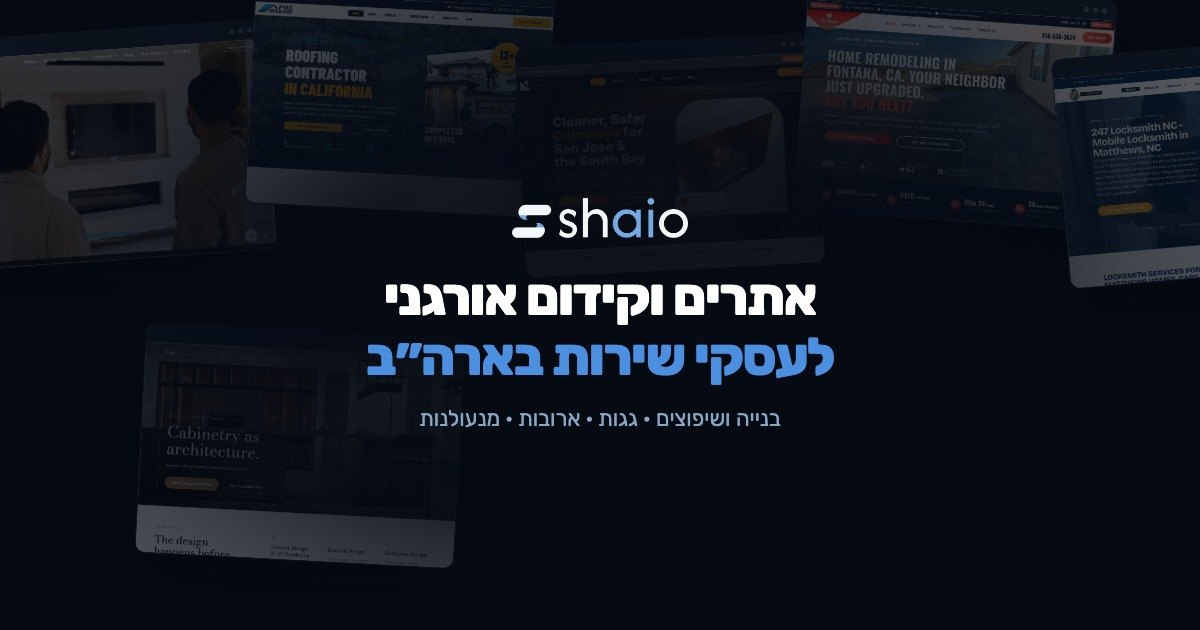
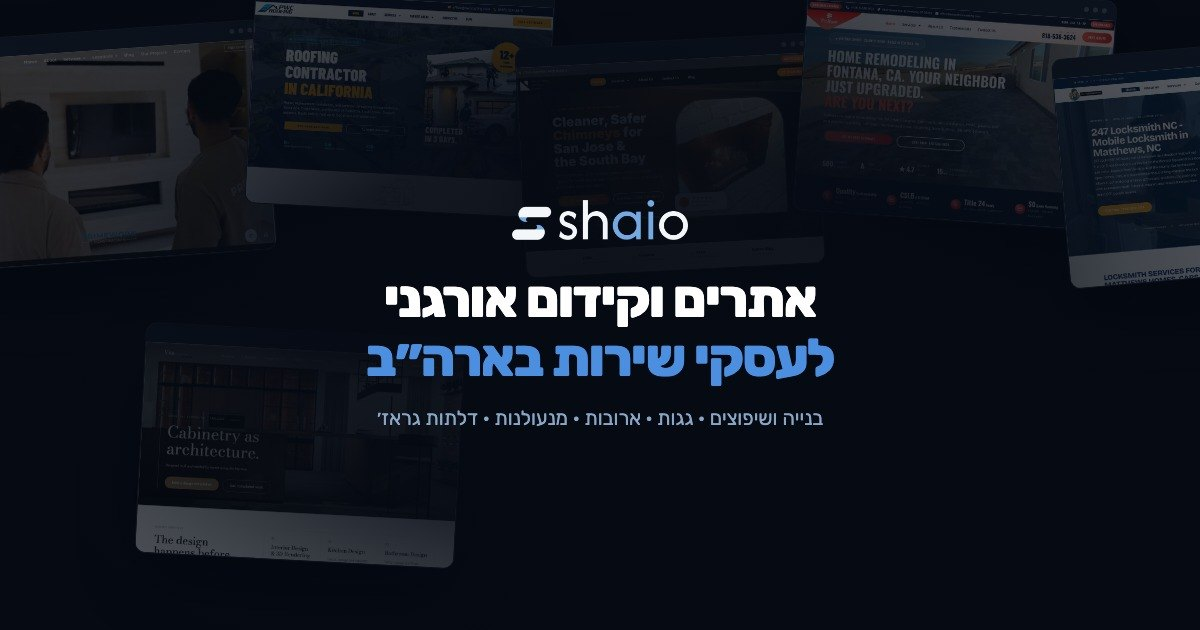
Name garage doors as a trade, and promise map alignment
Garage doors is work already being done, so it now appears wherever the trades
are listed: the hero line, the page description, the site description and the
social card. It is deliberately not added as a catalogue filter yet, because
there is no project behind it and an empty filter reads worse than no filter.
It also moves out of the "not on the list" card, which would otherwise
contradict naming it.

The SEO list now states that the site is kept aligned with the Google Business
Profile on name, address, services and service areas. That consistency is what
the map pack actually keys on, and it was the one part of the local work the
page never claimed.

diff --git a/scripts/og-template.html b/scripts/og-template.html
@@ -20,7 +20,7 @@ html,body{width:1200px;height:630px;overflow:hidden;background:#050A13}
 .copy img.logo{height:40px;width:auto;margin-bottom:30px}
 h1{font-size:52px;font-weight:800;line-height:1.14;letter-spacing:-.025em;color:#fff}
 h1 span{color:#4C8FE0}
-p{margin-top:18px;font-size:22px;color:#8AA6C6}
+p{margin-top:18px;font-size:20px;color:#8AA6C6;white-space:nowrap}
 .chips{margin-top:26px;display:flex;gap:9px;justify-content:center}
 .chip{border:1px solid rgba(255,255,255,.18);background:rgba(255,255,255,.07);border-radius:999px;
   padding:7px 16px;font-size:16px;font-weight:600;color:#D8E2EE}
@@ -55,6 +55,6 @@ p{margin-top:18px;font-size:22px;color:#8AA6C6}
   <div class="copy">
[1 lines of base64/hex data omitted]
     <h1>אתרים וקידום אורגני<br><span>לעסקי שירות בארה״ב</span></h1>
-    <p>בנייה ושיפוצים · גגות · ארובות · מנעולנות</p>
+    <p>בנייה ושיפוצים · גגות · ארובות · מנעולנות · דלתות גראז׳</p>
   </div>
 </div></body></html>

diff --git a/src/data/site.ts b/src/data/site.ts
@@ -17,7 +17,7 @@ export const site = {
   email: "contact@shaiomedia.com",
   whatsapp: "https://wa.link/h5ltox",
   description:
-    "בונים אתרים ומקדמים אורגנית עסקי שירות בארצות הברית. בנייה ושיפוצים, גגות, ארובות ומנעולנות.",
+    "בונים אתרים ומקדמים אורגנית עסקי שירות בארצות הברית. בנייה ושיפוצים, גגות, ארובות, מנעולנות ודלתות גראז׳.",
 };
 
 /* ---------- Proof strip ---------- */
@@ -201,6 +201,7 @@ export const includes = [
       "מחקר מילות מפתח לפי מה שמחפשים באזור שלכם",
       "אופטימיזציה טכנית מלאה: מהירות, אינדוקס, סכמה",
       "פרופיל העסק בגוגל ומיקום במפות",
+      "התאמה מלאה בין האתר לפרופיל במפות: שם, כתובת, שירותים ואזורי שירות זהים",
       "תוכן חדש כל חודש",
       "בניית קישורים וציטוטים מקומיים",
       "מעקב דירוגים בגריד לפי אזור",
